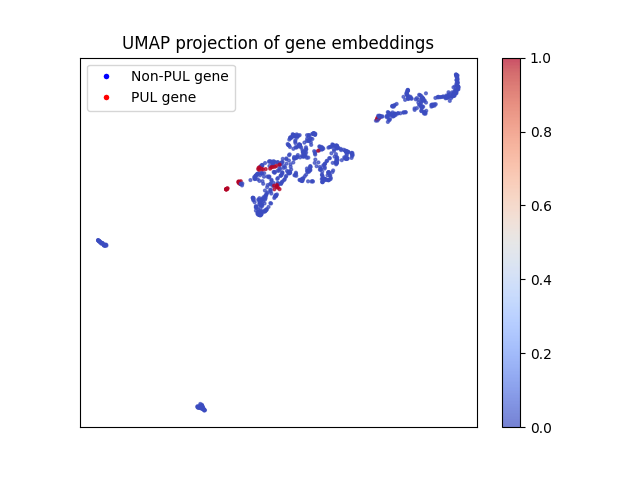
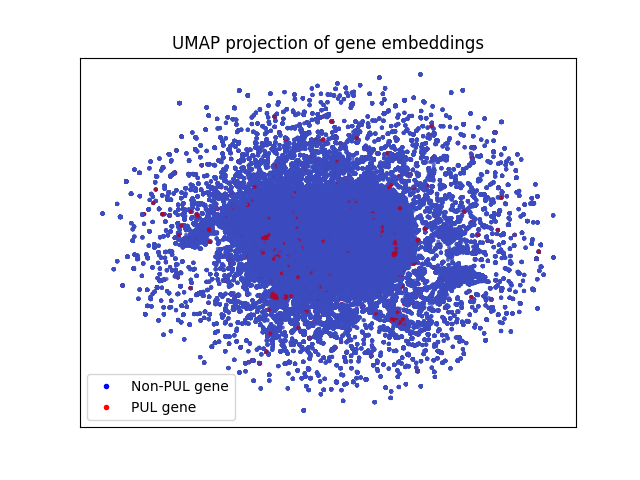
redo umap

Changed region(s): [[0.1562, 0.0938, 0.875, 0.9062], [0.1875, 0.0625, 0.7812, 0.2188]]

diff --git a/src/scripts/visualize_embeddings.py b/src/scripts/visualize_embeddings.py
@@ -10,7 +10,7 @@ embeddings = (
 embedding_matrix = np.stack(embeddings.select("embeddings").to_series().to_list())
 labels = embeddings.select("label").to_series().to_list()
 
-reducer = umap.UMAP(random_state=42)
+reducer = umap.UMAP()
 embedding_2d = reducer.fit_transform(embedding_matrix)
 
 plt.scatter(embedding_2d[:, 0], embedding_2d[:, 1], c=labels, cmap="coolwarm", alpha=0.7, s=4)
